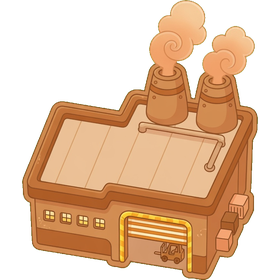
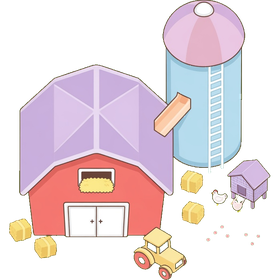
Større mobil-minimap og friskere sted-art
Minimap skalerer med skærmbredde (større touch-mål) og tydeligere
steder. Opdaterede factory/farm/harbor sprites.

diff --git a/js/game.js b/js/game.js
@@ -2002,13 +2002,19 @@ export class Game {
 
   /**
    * Minimap over hele spilbrættet (worldW/H) – bottom-center over stats.
+   * Størrelse skalerer med skærm (større touch-mål på mobil).
    */
   drawMinimap(ctx, w, h) {
     const dpr = this.dpr || 1;
-    const mapW = 120 * dpr;
-    const mapH = 90 * dpr;
+    const cssW = w / dpr;
+    // Mobile: ~32% of width, min 140 / max 200 css px; desktop a bit larger
+    const mapCssW = Math.min(200, Math.max(140, cssW * 0.34));
+    const mapCssH = mapCssW * 0.78;
+    const mapW = mapCssW * dpr;
+    const mapH = mapCssH * dpr;
     const mx = (w - mapW) / 2;
-    const my = h - mapH - 52 * dpr;
+    // Above stats bar + safe home indicator
+    const my = h - mapH - Math.max(56, 48) * dpr;
 
     const worldW = Math.max(1, this.worldW || w);
     const worldH = Math.max(1, this.worldH || h);
@@ -2078,17 +2084,17 @@ export class Game {
       ctx.stroke();
     }
 
-    // Places
+    // Places – larger dots for mobile readability
     for (const d of this.districts) {
       const px = ox + d.x * scale;
       const py = oy + d.y * scale;
-      const pr = Math.max(3 * dpr, d.r * scale * 0.7);
+      const pr = Math.max(4.5 * dpr, d.r * scale * 0.85);
       ctx.beginPath();
       ctx.fillStyle = d.color || '#a8a29e';
       ctx.arc(px, py, pr, 0, Math.PI * 2);
       ctx.fill();
-      ctx.strokeStyle = 'rgba(255,255,255,0.5)';
-      ctx.lineWidth = 0.8 * dpr;
+      ctx.strokeStyle = 'rgba(255,255,255,0.65)';
+      ctx.lineWidth = 1.1 * dpr;
       ctx.stroke();
     }
 
